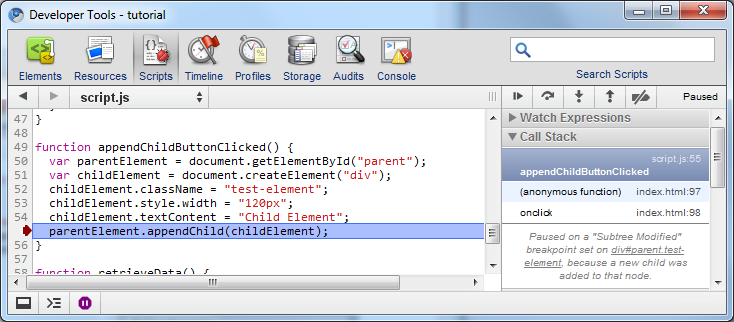
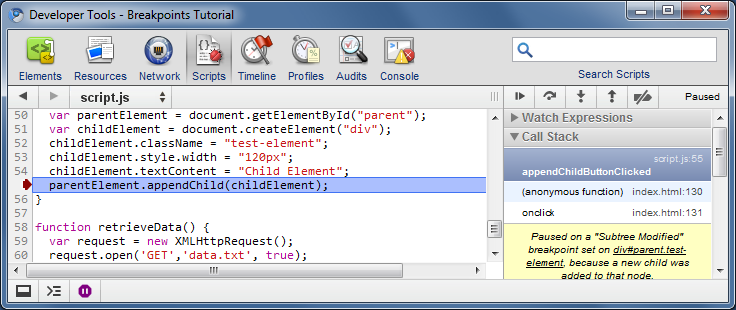
Update screenshots and Event Listeners breakpoint types list
git-svn-id: http://chromedevtools.googlecode.com/svn/trunk@418 fc8a088e-31da-11de-8fef-1f5ae417a2df

diff --git a/tutorials/breapoints/index.html b/tutorials/breapoints/index.html
@@ -154,7 +154,6 @@ XHR breakpoint from Network Panel:</div>
   <li>Go to Network Panel and select XHR resource category</li>
   <li>Right-click on "data.txt" resource and click "Set XHR Breakpoint" in context menu</li>
   <li>XHR Breakpoint will be added to XHR Breakpoints pane</li>
-  <br><img src=images/setXHRBreakpointFromNetworkPanel.png></img><br><br>
 </ol>
 
 <h1><a name="eventListener">Breakpoints on JavaScript Event Listeners</a></h1>
@@ -169,12 +168,20 @@ XHR breakpoint from Network Panel:</div>
   <li>Move your mouse across the box below:</li>
   <div id="hoverme" class="test-element" style="width: 100px">Hover me!</div>
   <li>You should stop on mouseout event handler</li>
-  <br><img src=images/pauseInHoverHandler.png></img><br><br>
+  <br><img src=images/pauseOnMouseOut.png></img><br><br>
   <li>Press play or hit F8 to resume</li>
 </ol>
 <br>
 <div>The list of supported events:
 <ol>
+  <li>Keyboard
+  <ul>
+    <li>keydown</li>
+    <li>keypress</li>
+    <li>keyup</li>
+    <li>textInput</li>
+  </ul>
+  </li>
   <li>Mouse
   <ul>
     <li>click</li>
@@ -187,19 +194,56 @@ XHR breakpoint from Network Panel:</div>
     <li>mousewheel</li>
   </ul>
   </li>
-  <li>Keyboard
+  <li>Control
   <ul>
-    <li>keydown</li>
-    <li>keypress</li>
-    <li>keyup</li>
-  </ul>
-  </li>
-  <li>HTML frame/object
-  <ul>
-    <li>load</li>
-    <li>error</li>
     <li>resize</li>
     <li>scroll</li>
+    <li>zoom</li>
+    <li>focus</li>
+    <li>blur</li>
+    <li>select</li>
+    <li>change</li>
+    <li>submit</li>
+    <li>reset</li>
+  </ul>
+  </li>
+  <li>Clipboard
+  <ul>
+    <li>copy</li>
+    <li>cut</li>
+    <li>paste</li>
+    <li>beforecopy</li>
+    <li>beforecut</li>
+    <li>beforepaste</li>
+  </ul>
+  </li>
+  <li>Load
+  <ul>
+    <li>load</li>
+    <li>unload</li>
+    <li>abort</li>
+    <li>error</li>
+  </ul>
+  </li>
+  <li>DOM Mutation
+  <ul>
+    <li>DOMActivate</li>
+    <li>DOMFocusIn</li>
+    <li>DOMFocusOut</li>
+    <li>DOMAttrModified</li>
+    <li>DOMCharacterDataModified</li>
+    <li>DOMNodeInserted</li>
+    <li>DOMNodeInsertedIntoDocument</li>
+    <li>DOMNodeRemoved</li>
+    <li>DOMNodeRemovedFromDocument</li>
+    <li>DOMSubtreeModified</li>
+    <li>DOMContentLoaded</li>
+  </ul>
+  </li>
+  <li>Device
+  <ul>
+    <li>deviceorientation</li>
+    <li>devicemotion</li>
   </ul>
   </li>
 </ol>
